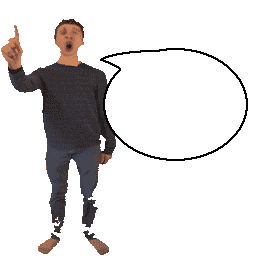
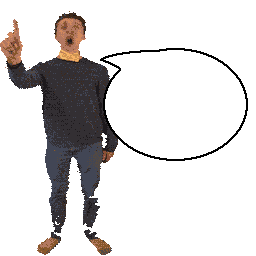
0.14.6 + discontinuation

diff --git a/Source/Patches.cs b/Source/Patches.cs
@@ -25,7 +25,7 @@ namespace UncertainLuei.BaldiPlus.CustomPosters.Patches
     }
 
     [HarmonyPatch(typeof(TextTextureGenerator))]
-    [HarmonyPatch("GenerateTextTexture")]
+    [HarmonyPatch("GenerateTextTexture", [typeof(PosterObject), typeof(bool)])]
     public class TextTexturePatch
     {
         static void Postfix(Texture2D __result, PosterObject poster)

diff --git a/README.md b/README.md
@@ -1,10 +1,12 @@
+***This mod is discontinued and will no longer be maintained. A replacement mod will be made eventually.***
+
 # BB+ Custom Posters Mod
 ![Version](https://img.shields.io/badge/version-2025.3-purple) ![GitHub License](https://img.shields.io/github/license/uncertainluei/BaldiPlus-CustomPosters)
-![BB+ version](https://img.shields.io/badge/bb+-0.12.1-69C12E?color=green) ![BepInEx version](https://img.shields.io/badge/bepinex-5.4.23-69C12E?color=yellow&link=https://github.com/BepInEx/BepInEx/releases/tag/v5.4.23) ![Json.NET version](https://img.shields.io/badge/json.net-13.0.3-69C12E?color=orange) ![MTM101BMDE version](https://img.shields.io/badge/mtm101bmde-9.0-69C12E?color=red&link=https://gamebanana.com/mods/383711)
+![BB+ version](https://img.shields.io/badge/bb+-0.14.6-69C12E?color=green) ![BepInEx version](https://img.shields.io/badge/bepinex-5.4.23-69C12E?color=yellow&link=https://github.com/BepInEx/BepInEx/releases/tag/v5.4.23) ![Json.NET version](https://img.shields.io/badge/json.net-13.0.3-69C12E?color=orange) ![MTM101BMDE version](https://img.shields.io/badge/mtm101bmde-11.2.0.3-69C12E?color=red&link=https://gamebanana.com/mods/383711)
  
-A mod for [*Baldi's Basics Plus v0.12.1*](https://store.steampowered.com/app/1275890/Baldis_Basics_Plus/), powered by [*BepInEx*](https://github.com/BepInEx/BepInEx), [*Json.NET*](https://github.com/JamesNK/Newtonsoft.Json) and the [*Baldi's Basics Plus Dev API*](https://gamebanana.com/mods/383711), that allows the creation of user-provided wall posters.
+A mod for [*Baldi's Basics Plus v0.14.6*](https://store.steampowered.com/app/1275890/Baldis_Basics_Plus/), powered by [*BepInEx*](https://github.com/BepInEx/BepInEx), [*Json.NET*](https://github.com/JamesNK/Newtonsoft.Json) and the [*Baldi's Basics Plus Dev API*](https://gamebanana.com/mods/383711), that allows the creation of user-provided wall posters.
 
-Requires [*BepInEx v5.4.23 and above*](https://github.com/BepInEx/BepInEx/tag/v5.4.23) and [*Baldi's Basics Plus Dev API v9.0.0.0 and above*](https://gamebanana.com/mods/383711).
+Requires [*BepInEx v5.4.23 and above*](https://github.com/BepInEx/BepInEx/tag/v5.4.23) and [*Baldi's Basics Plus Dev API v11.2.0.3 and above*](https://gamebanana.com/mods/383711).
 
 Json.NET is bunded with the download, and is [licensed under MIT](https://github.com/JamesNK/Newtonsoft.Json?tab=MIT-1-ov-file#MIT-1-ov-file).
 
@@ -26,7 +28,7 @@ Json.NET is bunded with the download, and is [licensed under MIT](https://github
 	- White/blacklist of posters added by either the base game or other mods
 	- Debug option to log (**almost**) all posters in the floor to the console, useful for balancing created poster weights
 - Runtime-created text poster textures are now named for easier debugging using tools such as UnityExplorer
-- Support for Blayms's [**Better Chalkboard Font** mod](https://gamebanana.com/mods/525402).
+- ~~Support for Blayms's [**Better Chalkboard Font** mod](https://gamebanana.com/mods/525402).~~ *Support likely no longer works.*
 
 **Planned features for future versions:**
 - Documentation on how to use the mod **(IMPORTANT!!)**
